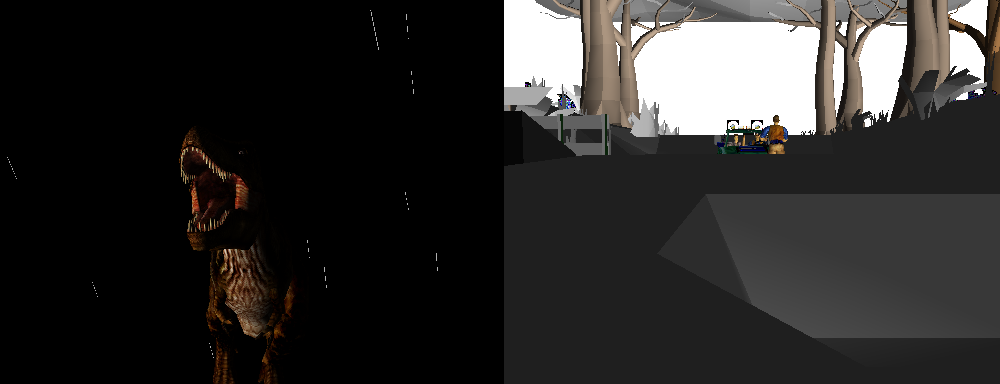
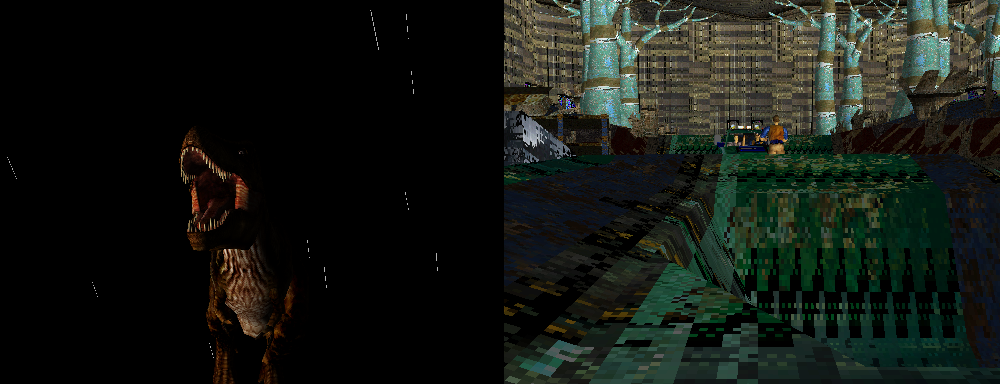
Recapture with the stage's textures loaded

diff --git a/README.md b/README.md
@@ -5,9 +5,8 @@
 Left: the attract scene, a textured T-Rex roaring in the rain.
 
 Right: stage one during a round, tilemap layers off so the Real3D is
-visible on its own. Most of its surfaces are flat because their
-textures resolve to a page of texture memory nothing is ever uploaded
-to -- see docs/technical/real3d.md.
+visible on its own. Every surface is textured; the textures still
+repeat too often across each one.
 
 **The Lost World: Jurassic Park** (Sega, 1997) statically recompiled — the
 game's PowerPC code becomes native C, linked against a Model 3 board.
